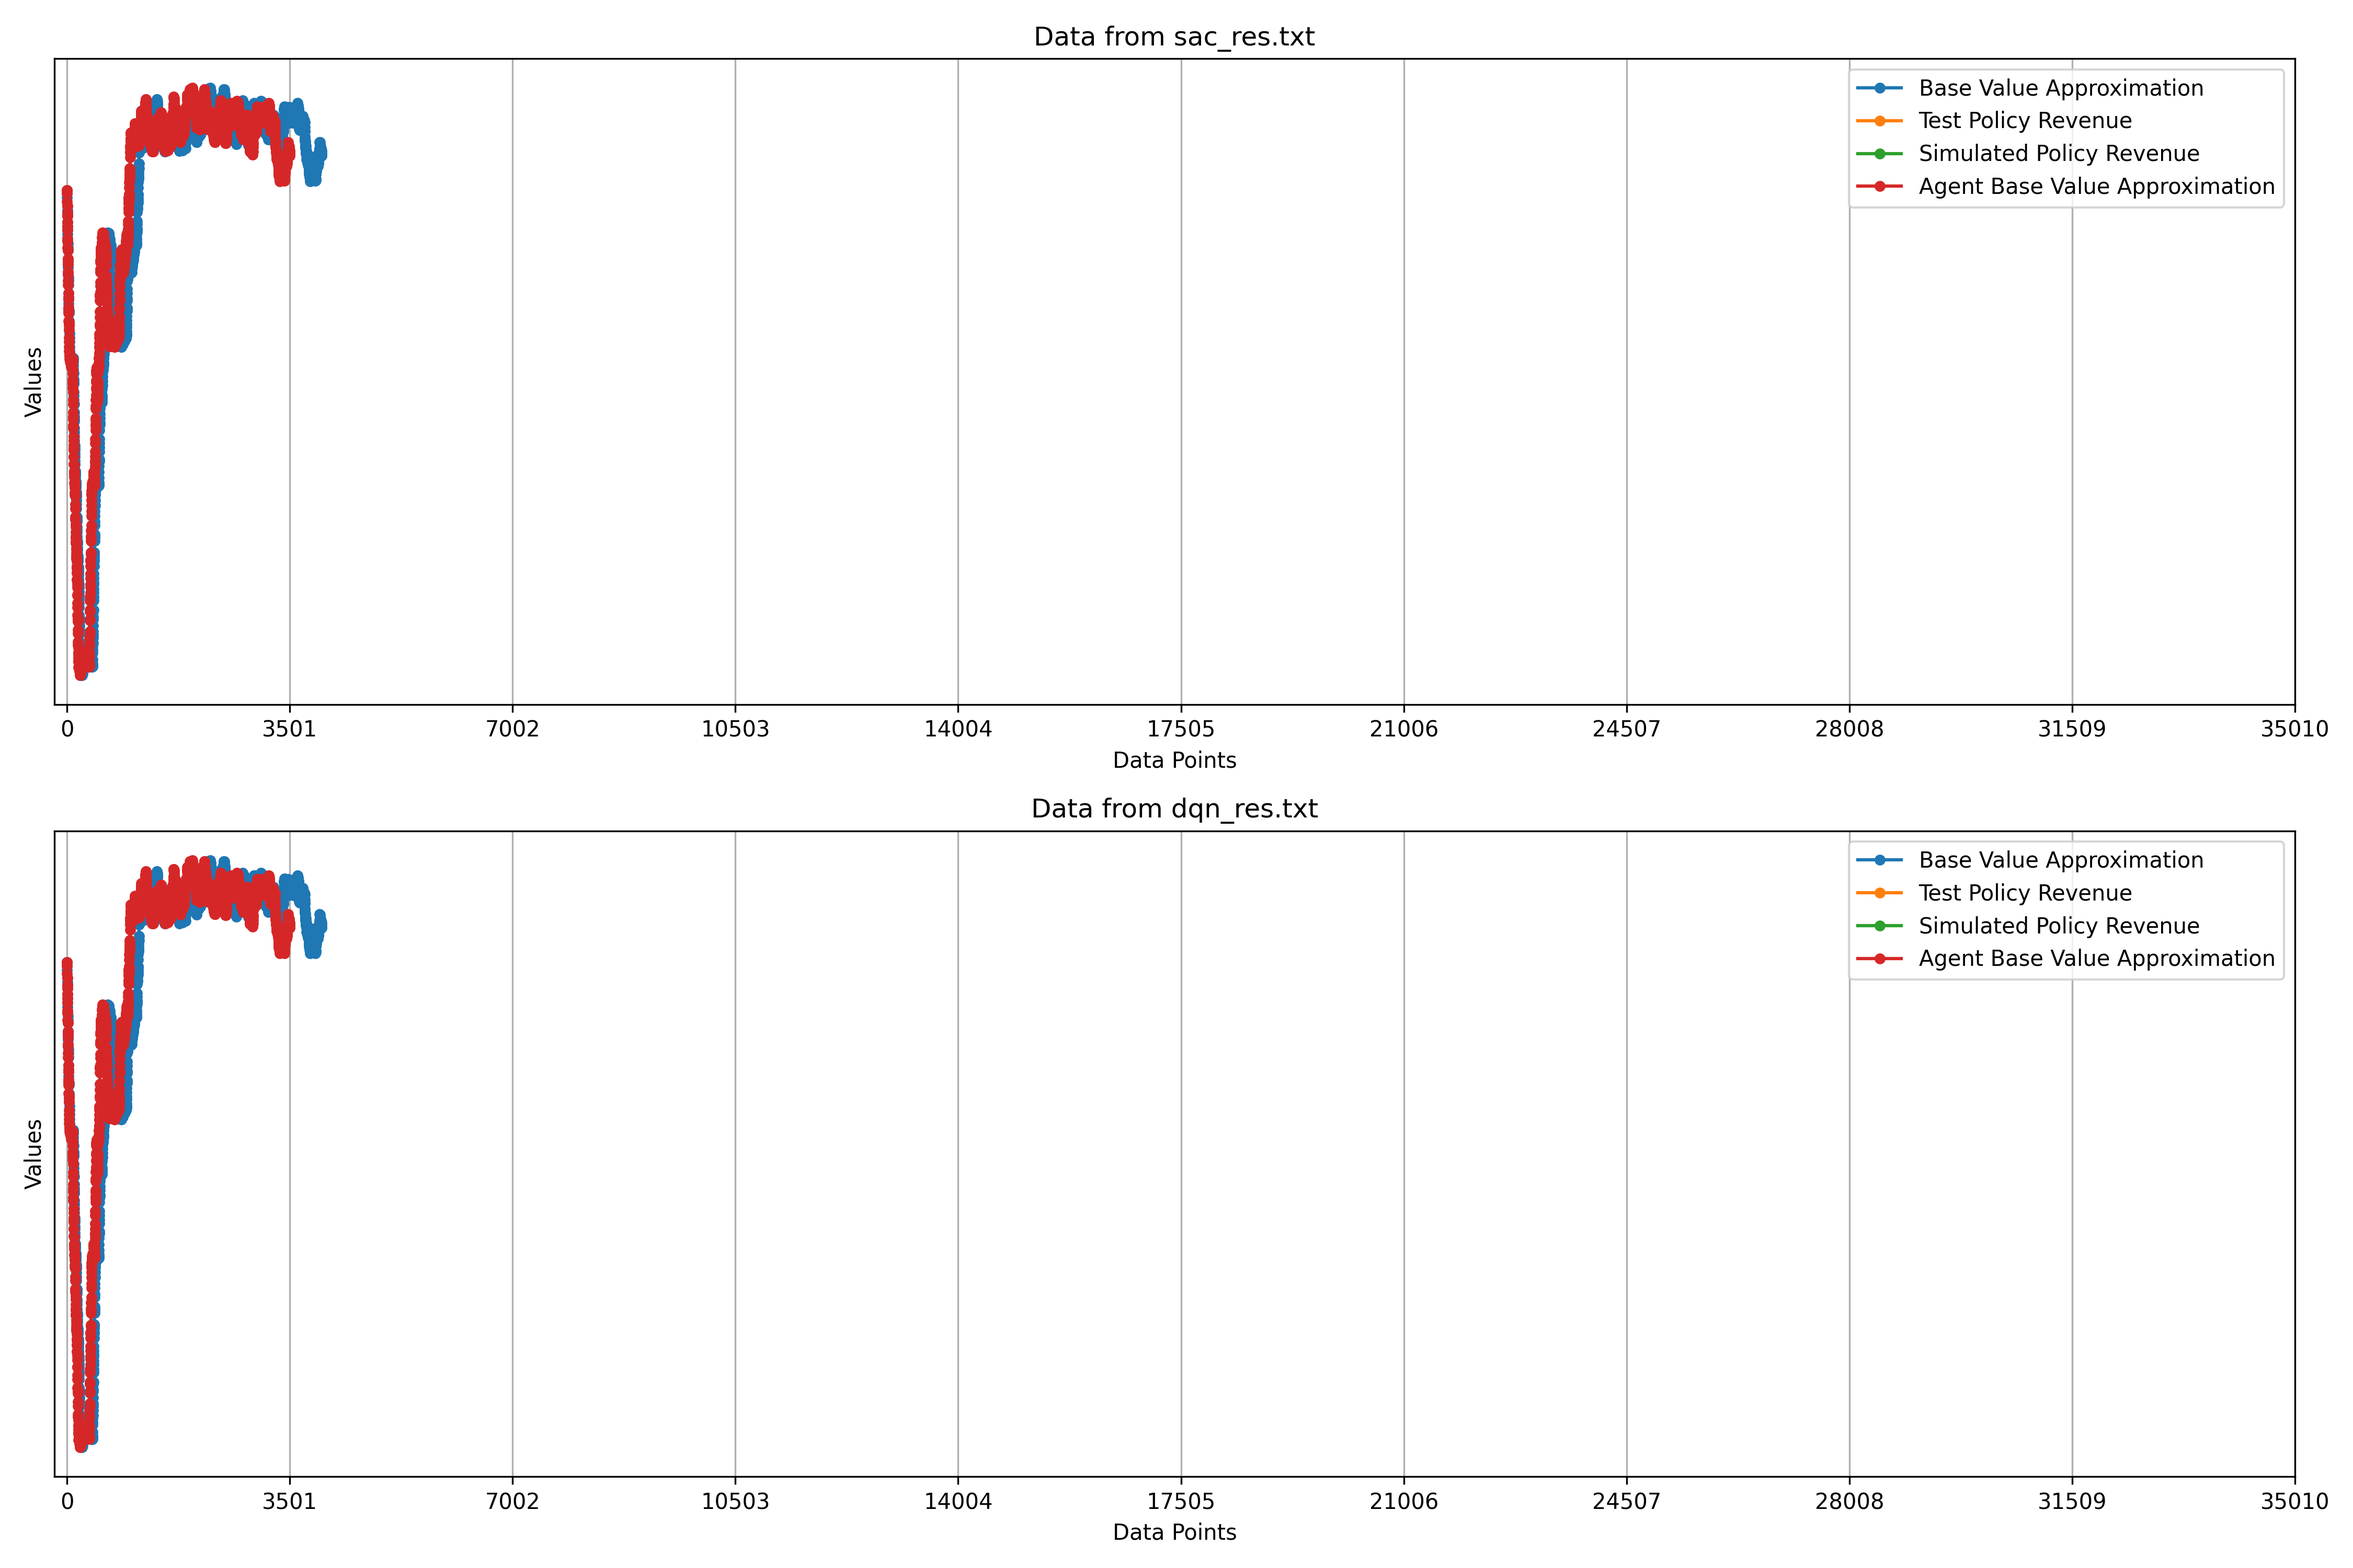
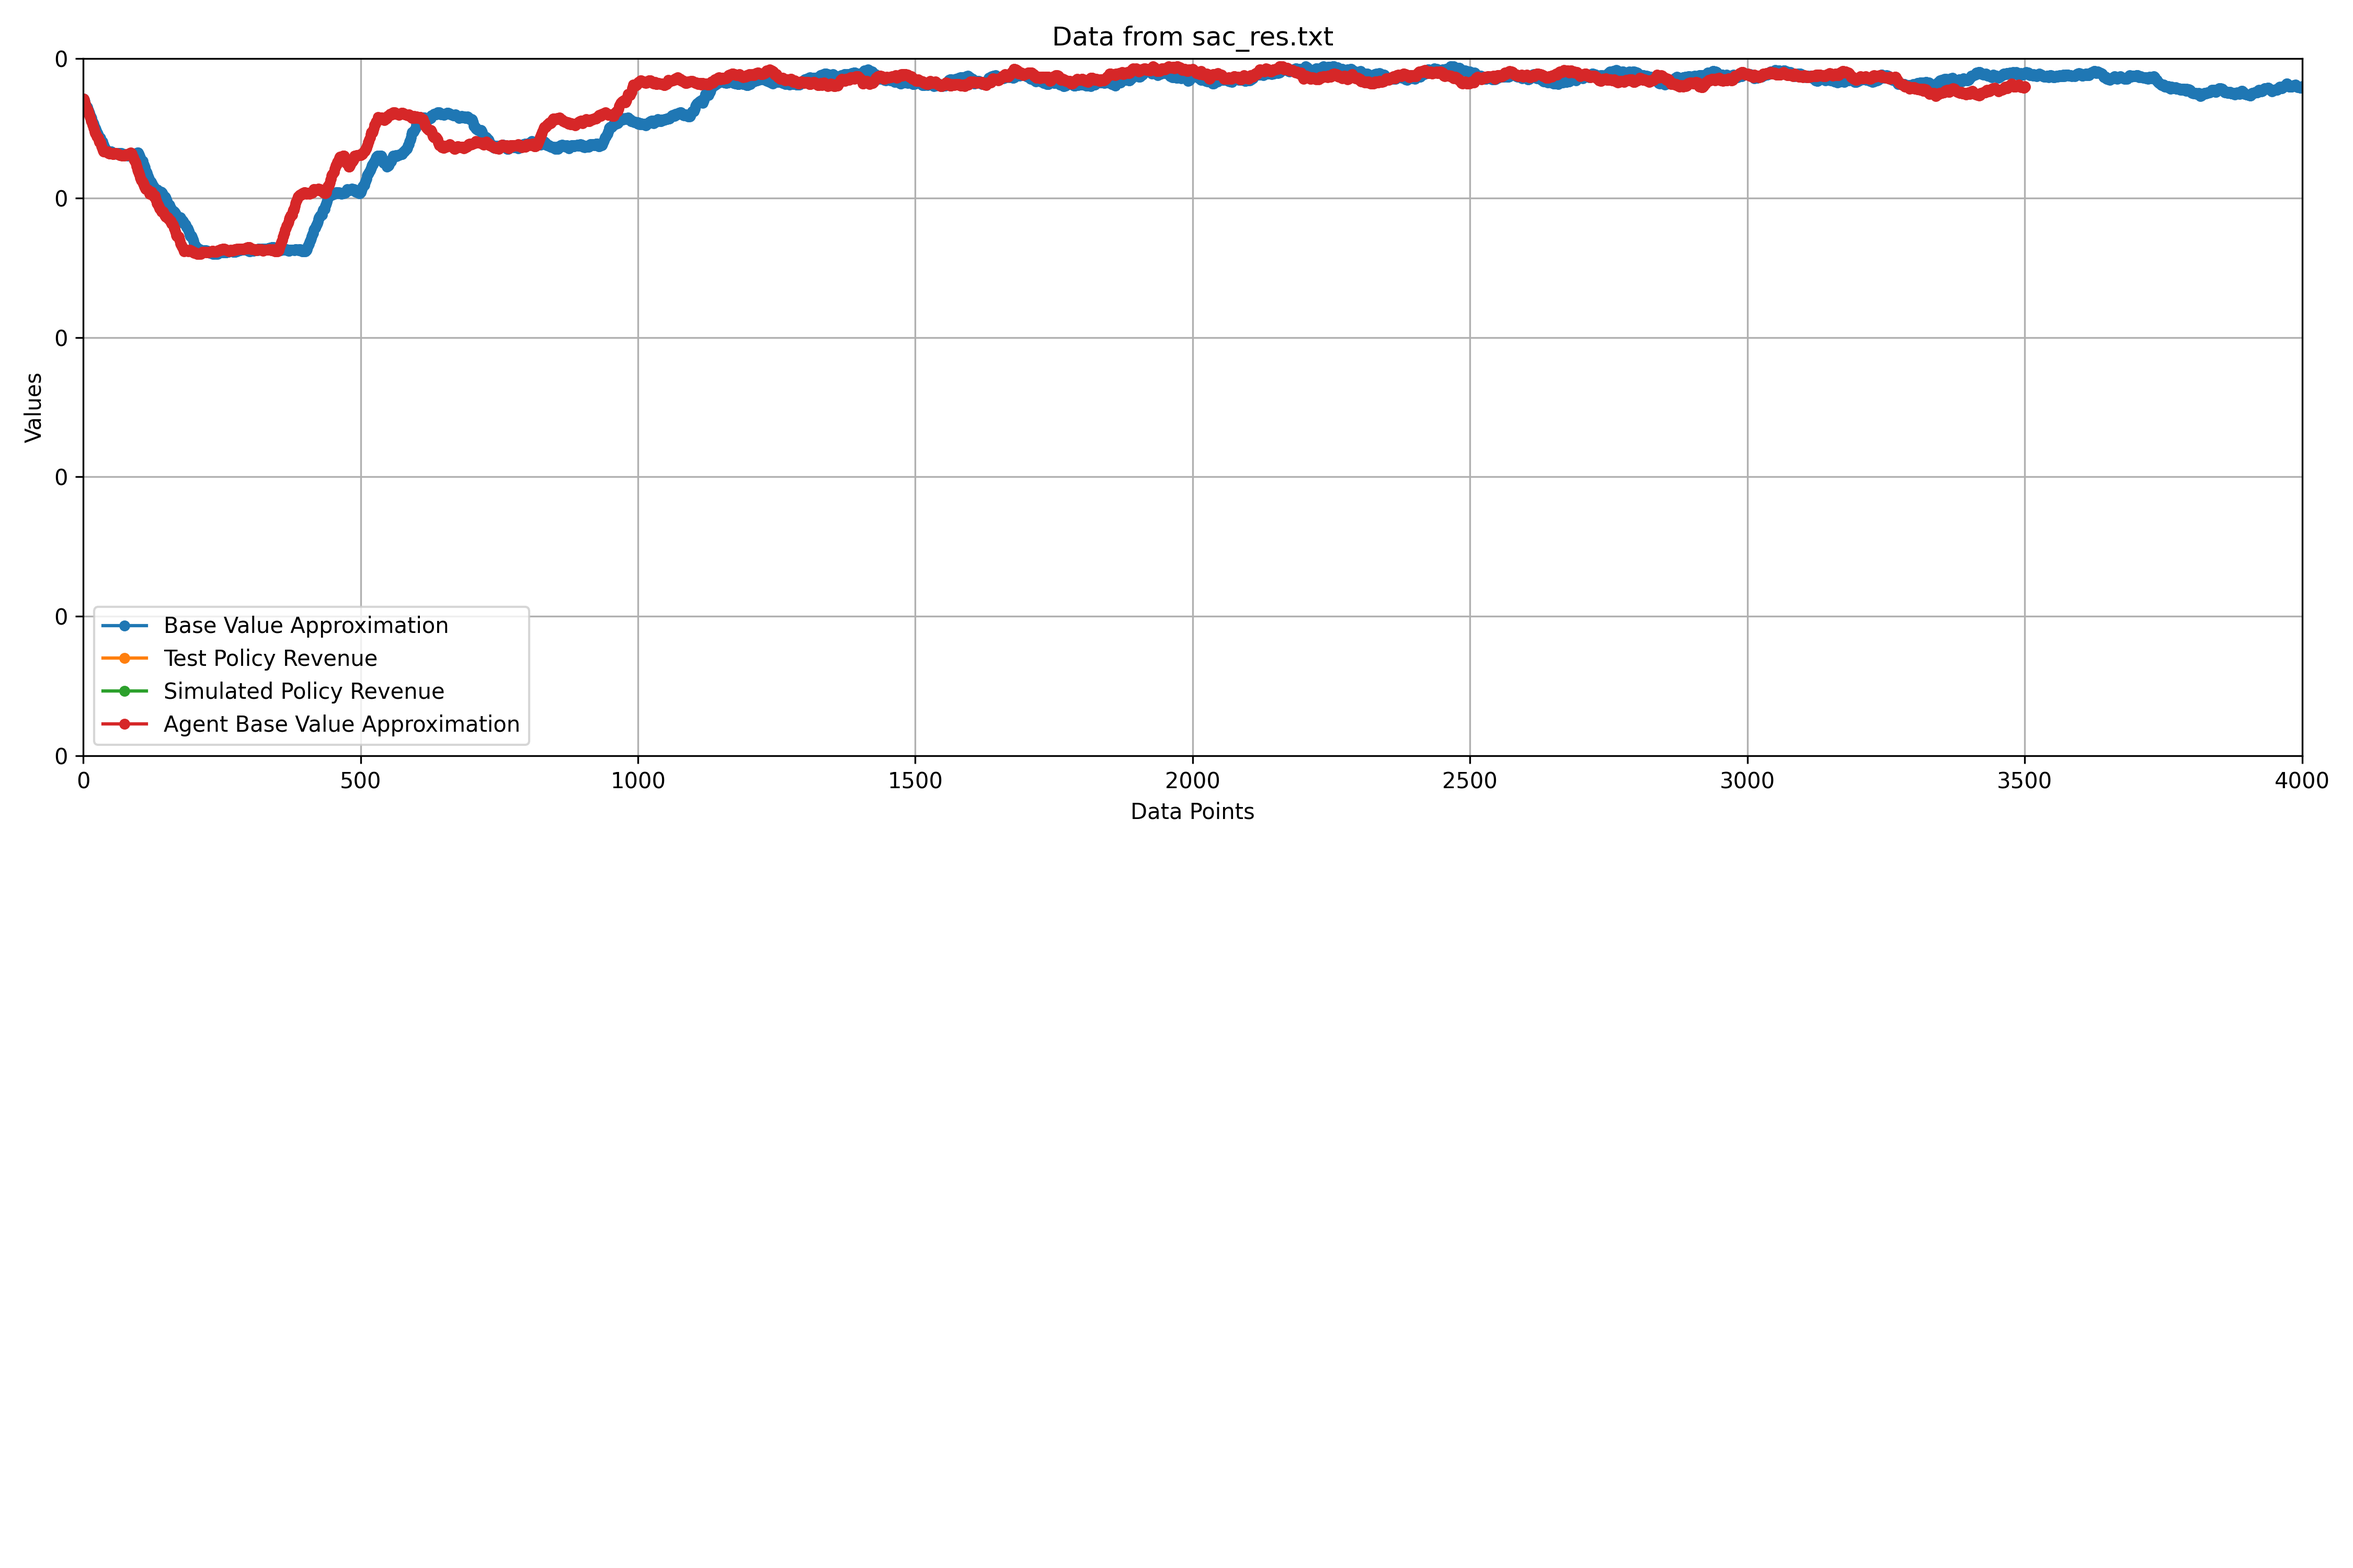
.

diff --git a/Result/eval.py b/Result/eval.py
@@ -64,8 +64,13 @@ def compare_files(file_paths):
         plt.legend()
         plt.grid(True)
 
-        plt.xticks(ticks=range(0, len(values), max(1, len(values) // 10)))
-        plt.yticks(ticks=range(int(min(values)), int(max(values)), max(1, (int(max(values)) - int(min(values))) // 10)))
+        # Set the xticks and yticks as specified
+        max_x = len(values)
+        plt.xticks(ticks=range(0, max_x, 500))
+        plt.yticks(ticks=[i * 0.1 for i in range(0, int(5000 / 0.1) + 1)])
+        plt.xlim(0, 4000)  # Set the x-axis limit
+        plt.ylim(0, 0.5)
+
         plt.tight_layout()
 
         print(f"File: {file_path}")
@@ -76,5 +81,5 @@ def compare_files(file_paths):
     plt.show()
 
 
-file_paths = ['sac_res.txt', 'dqn_res.txt']
+file_paths = ['sac_res.txt']
 compare_files(file_paths)
